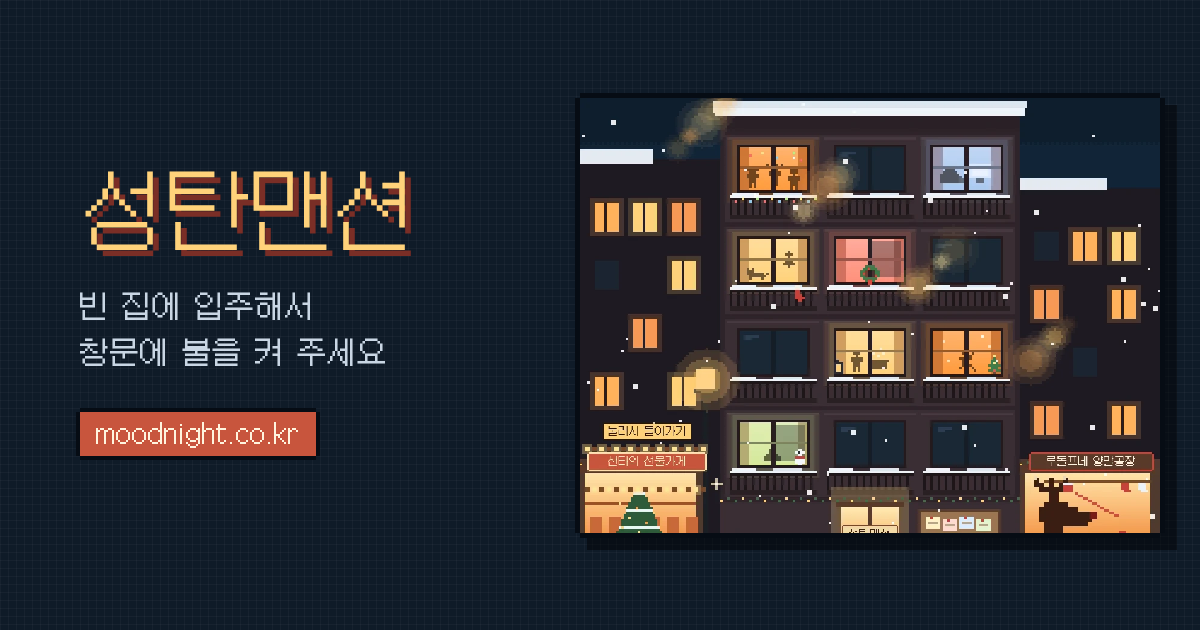
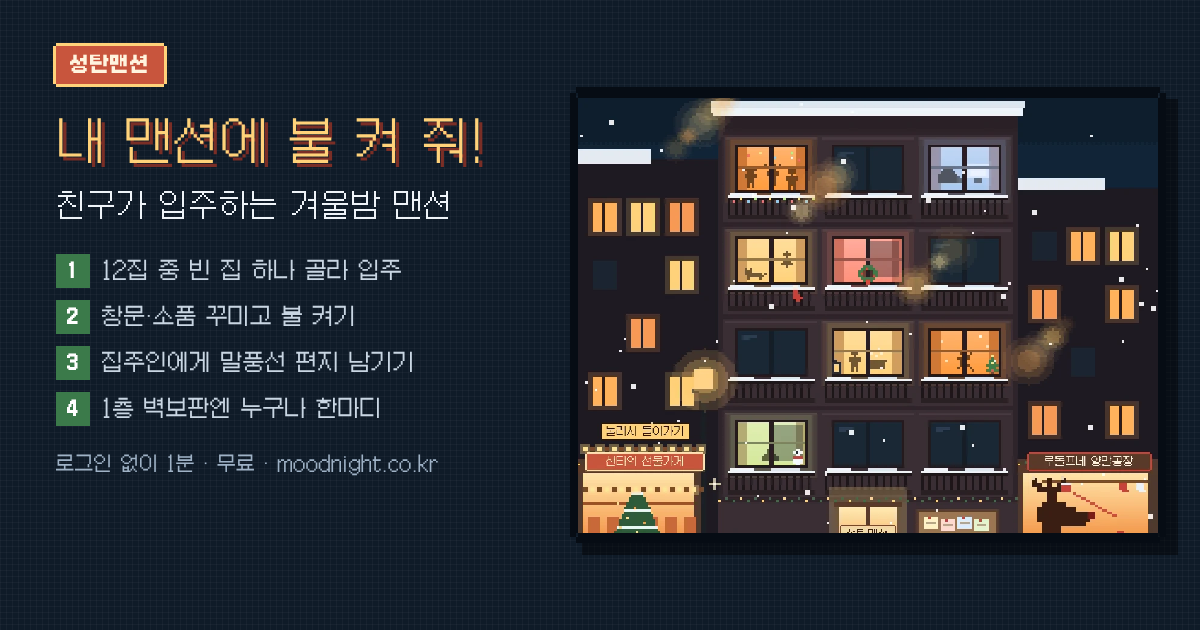
성탄맨션 공유 미리보기: 놀이 방법 4단계 카드
Claude-Session: https://claude.ai/code/session_012CHPn4F2m2Dq3FTsxdD2UG

diff --git a/mansion/index.html b/mansion/index.html
@@ -8,8 +8,8 @@
 <meta property="og:type" content="website">
 <meta property="og:site_name" content="무드나잇">
 <meta property="og:title" content="성탄맨션">
-<meta property="og:description" content="친구가 내 맨션 빈 집에 입주해 창문에 불을 켜고 말풍선 편지를 남기는 겨울밤 도트 놀이.">
-<meta property="og:image" content="https://www.moodnight.co.kr/mansion/og.png">
+<meta property="og:description" content="빈 집에 입주해 창문을 꾸미고 불을 켜고, 집주인에게 말풍선 편지를 남겨요. 입주 못 해도 1층 벽보판엔 누구나 한마디. 로그인 없이 1분.">
+<meta property="og:image" content="https://www.moodnight.co.kr/mansion/og.png?v=2">
 <meta property="og:image:width" content="1200">
 <meta property="og:image:height" content="630">
 <meta name="twitter:card" content="summary_large_image">
@@ -238,7 +238,7 @@ a.btn{display:block;text-align:center;text-decoration:none}
 
 <script src="https://cdn.jsdelivr.net/npm/@supabase/supabase-js@2.45.4/dist/umd/supabase.min.js"></script>
 <script src="https://t1.kakaocdn.net/kakao_js_sdk/2.7.2/kakao.min.js" crossorigin="anonymous"></script>
-<script src="/mansion/app.js?v=4"></script>
+<script src="/mansion/app.js?v=5"></script>
 <script src="/door.js"></script>
 <script src="/music/player.js?v=4" defer></script>
 <script src="/track.js" defer></script>

diff --git a/mansion/app.js b/mansion/app.js
@@ -475,7 +475,7 @@ function kakaoShare() {
     Kakao.Share.sendDefault({
       objectType: 'feed',
       content: { title: n ? `${S.name}의 성탄맨션에 빈 집이 ${n}개 남았어요` : `${S.name}의 성탄맨션이 꽉 찼어요`, description: n ? '하나 골라서 입주하고 창문에 불을 켜 주세요' : '들어오지 못한 친구는 벽보에 한마디 남겨요',
-        imageUrl: 'https://www.moodnight.co.kr/mansion/og.png', imageWidth: 1200, imageHeight: 630, link: { mobileWebUrl: url, webUrl: url } },
+        imageUrl: 'https://www.moodnight.co.kr/mansion/og.png?v=2', imageWidth: 1200, imageHeight: 630, link: { mobileWebUrl: url, webUrl: url } },
       buttons: [{ title: n ? '입주하러 가기' : '벽보 붙이러 가기', link: { mobileWebUrl: url, webUrl: url } }]
     });
   } catch (e) { copyLink(); }
